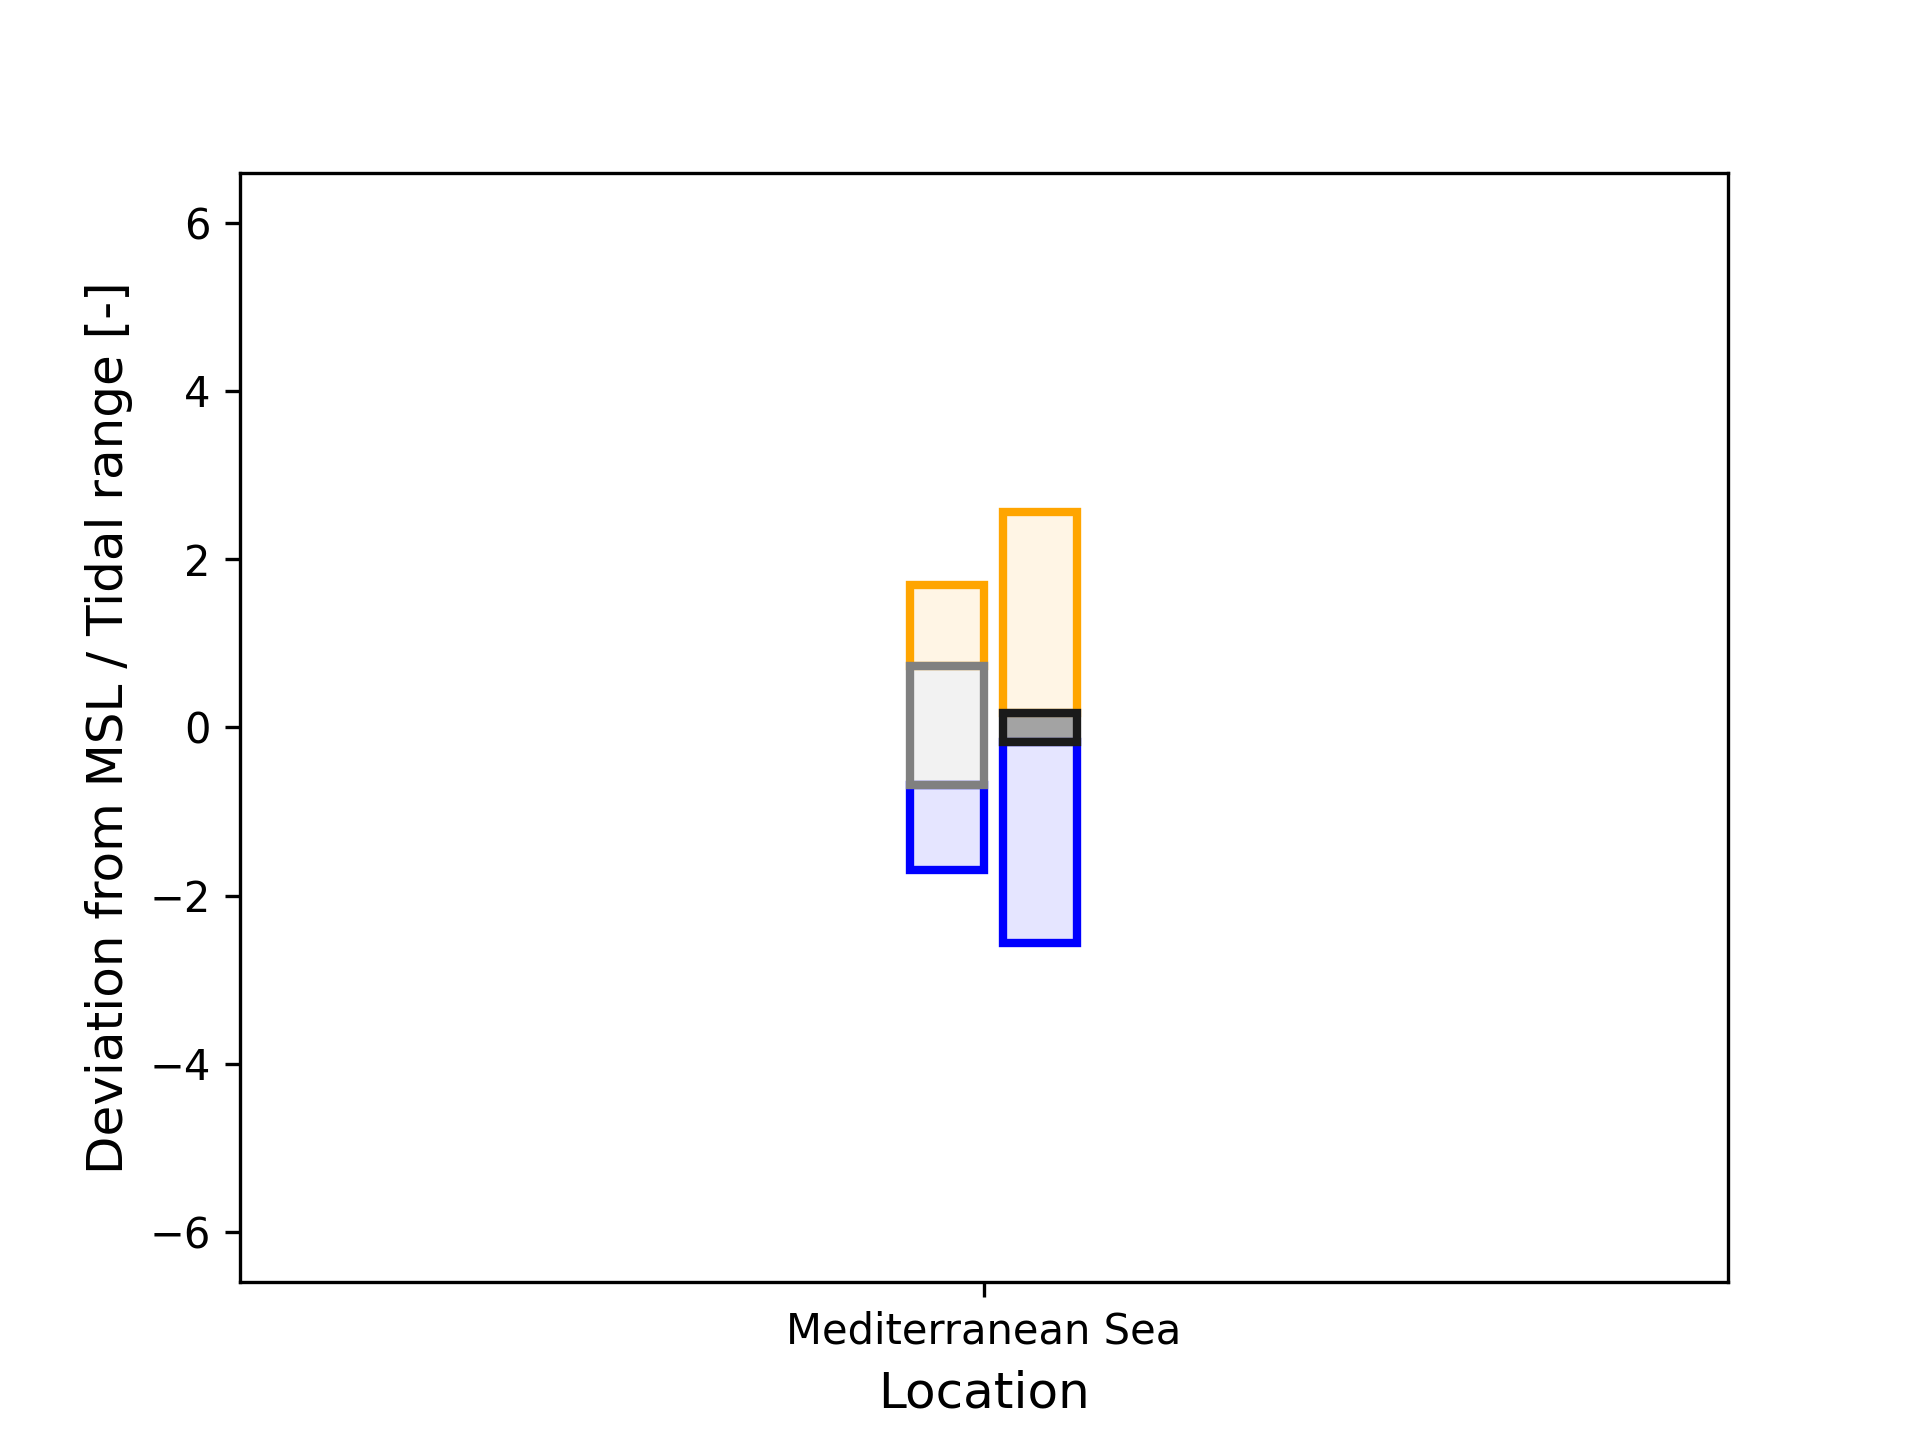
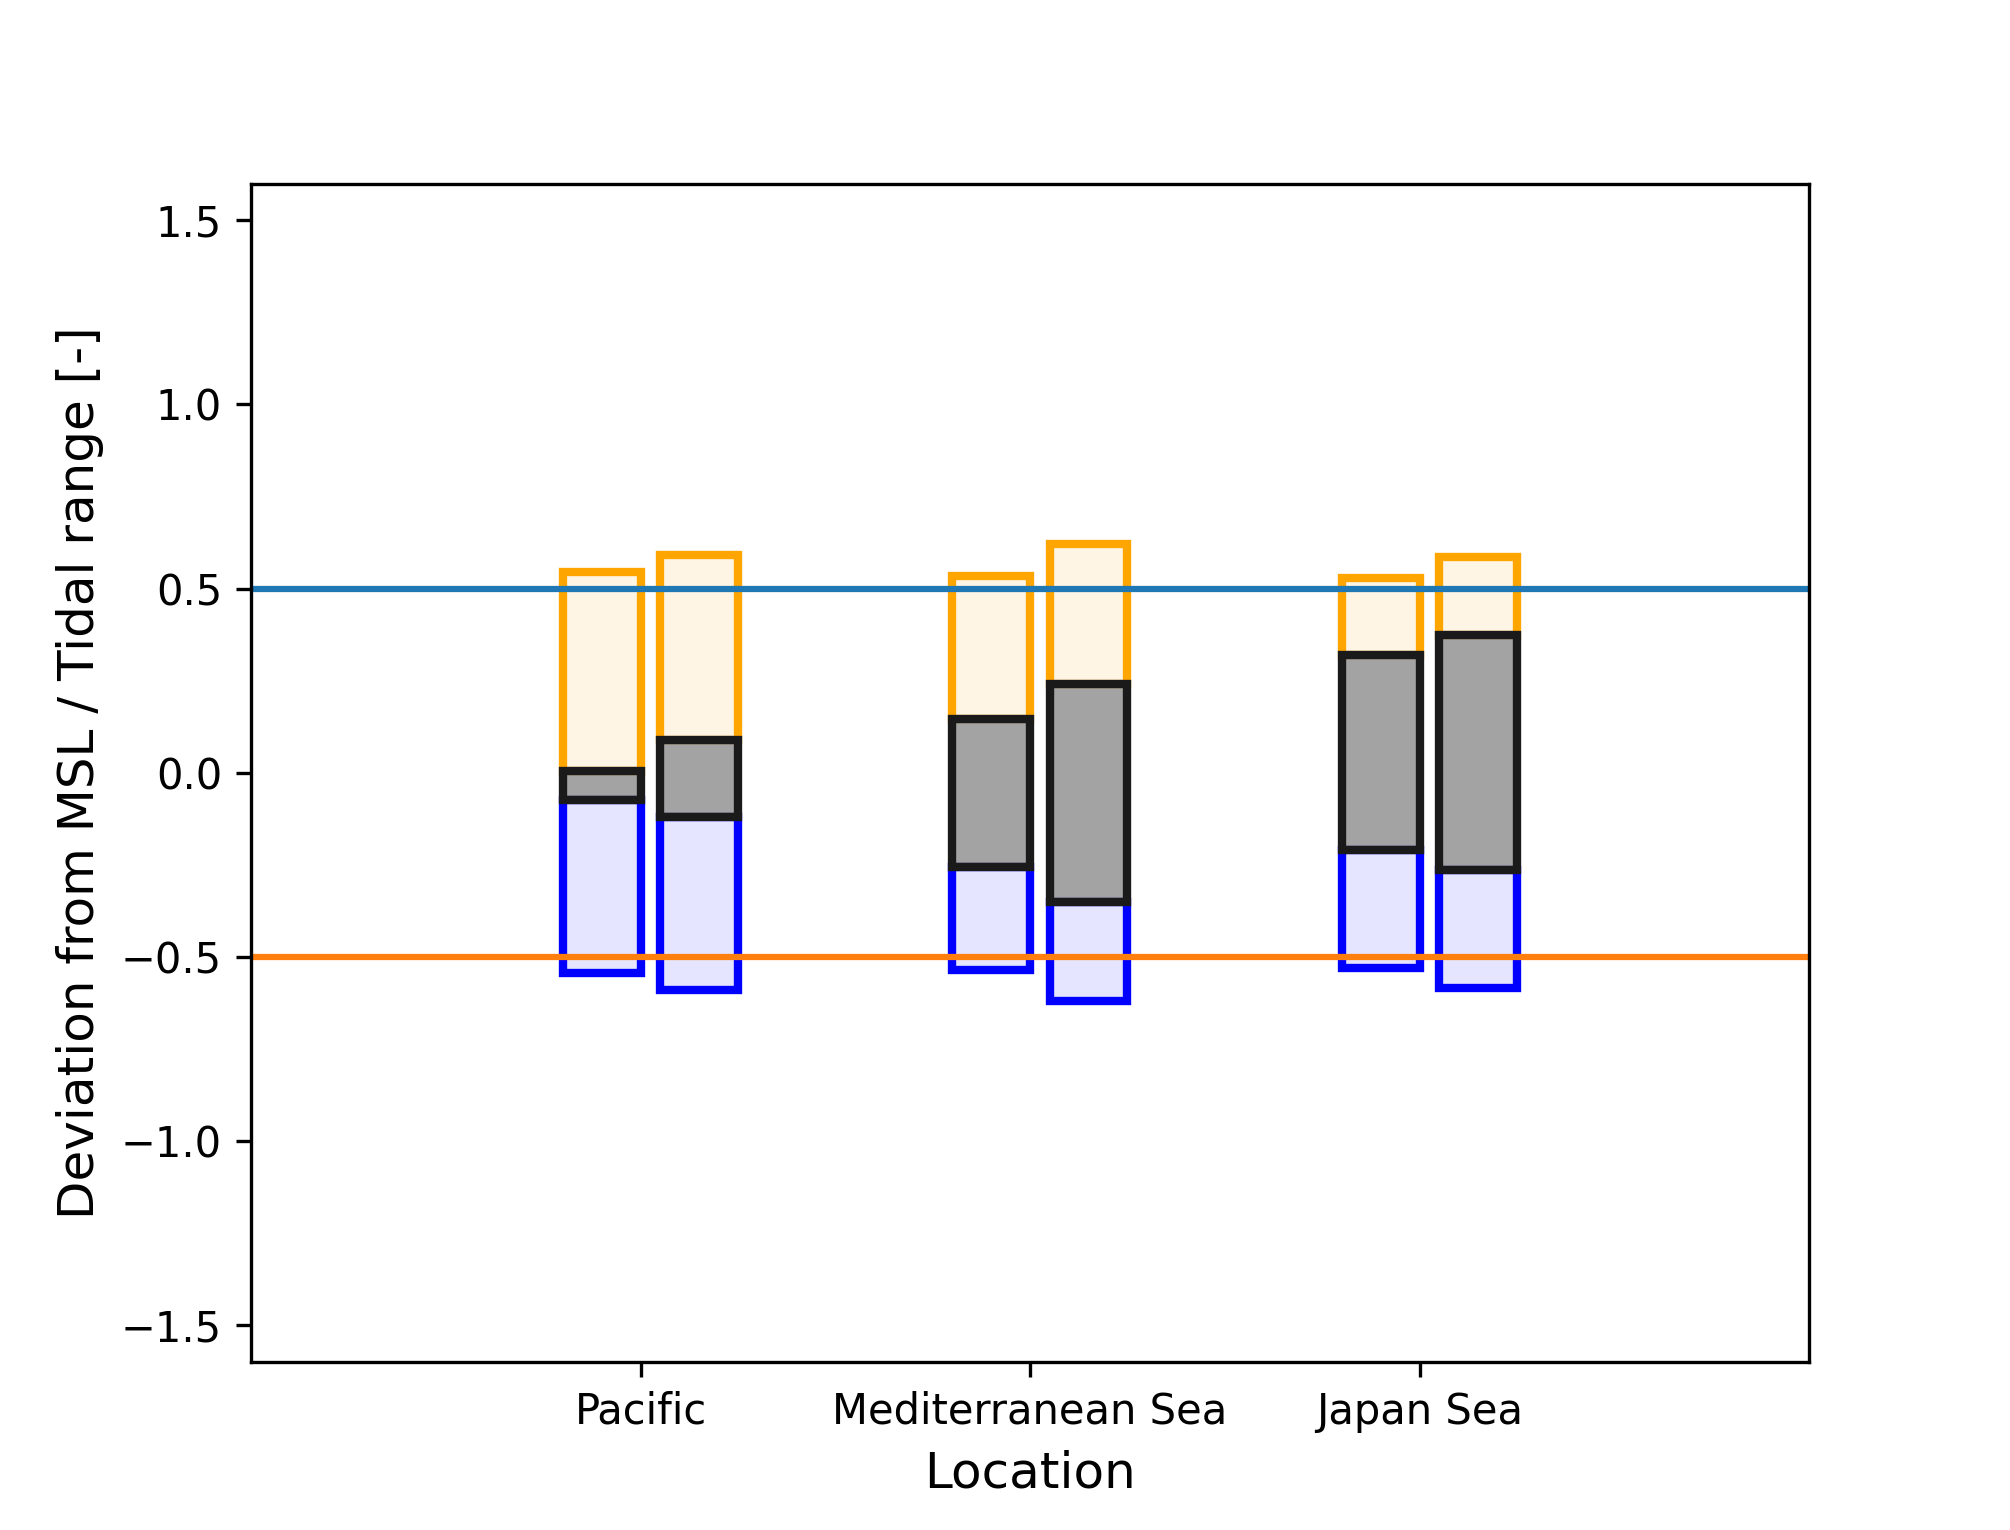
updating figure 2c

diff --git a/src/figure_2.py b/src/figure_2.py
@@ -4,7 +4,7 @@ from matplotlib.patches import Rectangle
 import pandas as pd
 import src.functions as f
 
-def figure_2a(ax,path_bin = './bin/figure_2/figure_2a.npy', path_png = None, run = False):
+def figure_2a(ax, path_bin = './bin/figure_2/figure_2a.npy', path_png = None, run = False):
 
     def run_simulation_figure_2(path_bin):
 
@@ -90,9 +90,21 @@ def figure_2a(ax,path_bin = './bin/figure_2/figure_2a.npy', path_png = None, run
         run_simulation_figure_2(path_bin)
     plot_figure_2(ax,path_bin, path_png)
 
-def figure_2b(ax,path_csv = 'data/ticon/TICON.txt', path_png = None):
+def figure_2c(ax, path_csv = 'data/ticon/TICON.txt', path_png = None):
 
-    def create_ticon_timeseries(path_csv):
+    def create_ticon_timeseries(path_csv, lat, lon):
+
+        def calculate_tidal_range(w):
+
+            nx = 149
+            ny = int(np.floor(w.size/nx))
+            w = w[:(nx*ny)].reshape(nx,ny)
+            lwl = w.min(axis = 0)
+            hwl = w.max(axis = 0)
+            tidal_amplitude = np.mean(hwl - lwl)
+            print(tidal_amplitude)
+
+            return tidal_amplitude
 
         tidal_constants = np.array([
             'M2', 'K1', 'N2', 'O1', 'P1', 'Q1', 'K2', 'S2', 'S1', 'SA', 'T2', 'MF', 'MM',
@@ -108,17 +120,18 @@ def figure_2b(ax,path_csv = 'data/ticon/TICON.txt', path_png = None):
             12.5660, 23.9340
         ])
 
-        df = pd.read_csv(path_csv, delim_whitespace=True)
+        df = pd.read_csv(path_csv, sep='\s+')
         df.columns = ['latitude', 'longitude', 'tidal_constituent', 'amplitude_cm', 'phase_degrees', 'amplitude-std_cm', 'phase-std_degrees', 'missing_data_percent', 'total_observations', 'time_gap_max', 'start_date', 'end_date', 'data_source']
 
         df['site_id'] = df.groupby(['latitude', 'longitude', 'data_source', 'start_date', 'end_date']).ngroup()
         site_list = np.unique(df['site_id'])
         n_sites = site_list.size
 
-        i = np.random.choice(n_sites)
-        i = 57#392
-        print(i)
-        site = df['site_id'] == i
+        def closest_to(x0, y0, x1, y1):
+            return np.argmin(np.sqrt((x1 - x0)**2 + (y1 - y0)**2))
+        idx = closest_to(df['latitude'], df['longitude'],  lat, lon)
+
+        site = df['site_id'] == df['site_id'][idx]
         df_site = df[site]
         amplitude_m  = df_site['amplitude_cm'].to_numpy() / 100
         phase_rad  = np.deg2rad(df_site['phase_degrees'].to_numpy())
@@ -129,64 +142,22 @@ def figure_2b(ax,path_csv = 'data/ticon/TICON.txt', path_png = None):
         t = np.arange(0, tf + dt, dt)
         
         w = (amplitude_m[np.newaxis, :] * np.cos(t[:, np.newaxis]*2*np.pi/period_hr[np.newaxis, :] + phase_rad[np.newaxis, :])).sum(axis = 1)
+        tidal_range = calculate_tidal_range(w)
+        w = w/tidal_range
 
         return t, w
 
-    def add_aslc(time, waterlevel, amplitude_annual_m):
+    def add_aslc(time, waterlevel, amplitude_annual_m, phase):
 
         period_annual_hr = 365.25 * 24
-        waterlevel_new = waterlevel + amplitude_annual_m * np.cos(time*2*np.pi/period_annual_hr)
+        waterlevel_new = waterlevel + amplitude_annual_m * np.cos(time*2*np.pi/period_annual_hr + phase)
 
         return waterlevel_new
 
-    def plot_test_figure(ax,elevation, emergence_freq, inundation_freq):
-
-        def identify_intertidal_zones(elevation, emergence_freq, inundation_freq):
-
-            supratidal_boundary = elevation[(inundation_freq >= 0.01).argmin()]
-            upper_intertidal_boundary = elevation[(inundation_freq <= 0.99).argmax()]
-            lower_intertidal_boundary = elevation[(emergence_freq <= 0.99).argmin()]
-            subtidal_boundary = elevation[(emergence_freq >= 0.01).argmax()]
-            print(supratidal_boundary, upper_intertidal_boundary, lower_intertidal_boundary, subtidal_boundary)
-            return supratidal_boundary, upper_intertidal_boundary, lower_intertidal_boundary, subtidal_boundary
-
-        for i in range(emergence_freq.shape[0]):
-
-            supratidal_boundary, upper_intertidal_boundary, lower_intertidal_boundary, subtidal_boundary = identify_intertidal_zones(elevation, emergence_freq[i,:], inundation_freq[i,:])
-            upper_intertidal = ((inundation_freq[i,:] < 0.99) & (inundation_freq[i,:] > 0.01))
-            lower_intertidal = ((emergence_freq[i,:] < 0.99) & (emergence_freq[i,:] > 0.01))
-
-            ax.fill_between(elevation, upper_intertidal, color = 'orange', alpha = 0.05)
-            ax.fill_between(elevation, lower_intertidal, color = 'blue', alpha = 0.05)
-
-            if i == 0:
-                ax.plot(elevation, emergence_freq[i,:], c = 'blue', alpha = 1, label = 'Emergence')
-                ax.plot(elevation, inundation_freq[i,:], c = 'orange', alpha = 1, label = 'Inundation')
-
-                ax.plot([lower_intertidal_boundary, upper_intertidal_boundary], [-0.02,-0.02], alpha = 1, c = 'black')
-                ax.plot([supratidal_boundary, upper_intertidal_boundary], [1.035,1.035], alpha = 1, c = 'orange')
-                ax.plot([lower_intertidal_boundary, subtidal_boundary], [1.02,1.02], alpha = 1, c = 'blue')
-            else:
-                ax.plot(elevation, emergence_freq[i,:], c = 'blue', alpha = 0.5, linestyle = 'dashed')
-                ax.plot(elevation, inundation_freq[i,:], c = 'orange', alpha = 0.5, linestyle = 'dashed')
-
-                ax.plot([lower_intertidal_boundary, upper_intertidal_boundary], [-0.02,-0.02], c = 'black', alpha = 0.5, linestyle = 'dashed')
-                ax.plot([supratidal_boundary, upper_intertidal_boundary], [1.035,1.035], c = 'orange', alpha = 0.5, linestyle = 'dashed')
-                ax.plot([lower_intertidal_boundary, subtidal_boundary], [1.02,1.02], c = 'blue', alpha = 0.5, linestyle = 'dashed')
-
-        ax.set_ylabel('Frequency of inundation/emergence [-]', fontsize = 12)
-        ax.set_xlabel('Deviation from MSL / Tidal range [-]', fontsize = 12)
-        ax.legend(frameon = False, fontsize = 11)
-        # plt.ylim(-0.17,1.17)
-        # plt.yticks(np.arange(0,1 + 0.2,0.2))
-        # plt.xlim(-3.4, 3.4)
-        #plt.show()
-
-    def plot_boxplot_figure(ax,elevation, emergence_freq, inundation_freq, path_png):
+    def add_boxplot(ax, pos, elevation, emergence_freq, inundation_freq, path_png = None):
     
         dz = np.round(np.diff(elevation).mean(), 3)    
 
-        #fig, ax = plt.subplots()
         for i in range(emergence_freq.shape[0]):
             upper_intertidal         = (emergence_freq [i,:] > 0.99) & ((inundation_freq[i,:] < 0.99) & (inundation_freq[i,:] > 0.01))
             intermediate_intertidal  = (inundation_freq[i,:] > 0.99) & (emergence_freq [i,:] > 0.99)
@@ -195,39 +166,56 @@ def figure_2b(ax,path_csv = 'data/ticon/TICON.txt', path_png = None):
 
             y = np.cumsum([0, lower_intertidal.sum(), intermediate_intertidal.sum(), transitioning_intertidal.sum(), upper_intertidal.sum()])*dz
             y -= y.max()/2
-            lower = Rectangle((i*0.125 - 0.1, y[0]), 0.1, y[1] - y[0], edgecolor = (0.0, 0.0, 1.0, 1),   facecolor = (0.0, 0.0, 1.0, 0.1), lw = 2)
+            lower = Rectangle((i*0.125 - 0.1 + pos*0.5, y[0]), 0.1, y[1] - y[0], edgecolor = (0.0, 0.0, 1.0, 1),   facecolor = (0.0, 0.0, 1.0, 0.1), lw = 2)
             ax.add_patch(lower)
-            upper = Rectangle((i*0.125 - 0.1, y[3]), 0.1, y[4] - y[3], edgecolor = (1.0, 0.647, 0.0, 1), facecolor = (1.0, 0.647, 0.0, 0.1), lw = 2)
+            upper = Rectangle((i*0.125 - 0.1 + pos*0.5, y[3]), 0.1, y[4] - y[3], edgecolor = (1.0, 0.647, 0.0, 1), facecolor = (1.0, 0.647, 0.0, 0.1), lw = 2)
             ax.add_patch(upper)
             if (y[2] - y[1]) > 0:
-                inter = Rectangle((i*0.125 - 0.1, y[1]), 0.1, y[2] - y[1], edgecolor = (0.5, 0.5, 0.5, 1),   facecolor = (0.5, 0.5, 0.5, 0.1), lw = 2)
+                inter = Rectangle((i*0.125 - 0.1 + pos*0.5, y[1]), 0.1, y[2] - y[1], edgecolor = (0.5, 0.5, 0.5, 1),   facecolor = (0.5, 0.5, 0.5, 0.1), lw = 2)
                 ax.add_patch(inter)
             if (y[3] - y[2]) > 0:
-                trans = Rectangle((i*0.125 - 0.1, y[1]), 0.1, y[3] - y[2], edgecolor = (0.1, 0.1, 0.1, 1),   facecolor = (0.1, 0.1, 0.1, 0.4), lw = 2)
+                trans = Rectangle((i*0.125 - 0.1 + pos*0.5, y[1]), 0.1, y[3] - y[2], edgecolor = (0.1, 0.1, 0.1, 1),   facecolor = (0.1, 0.1, 0.1, 0.4), lw = 2)
                 ax.add_patch(trans)
-        ax.set_ylim(elevation.min(), elevation.max())
-        ax.set_xlim(-1, 1)
-        ax.set_xticks(ticks = [0], labels = ['Mediterranean Sea'])
-        ax.set_ylabel('Deviation from MSL / Tidal range [-]', fontsize = 12)
-        ax.set_xlabel('Location', fontsize = 12)
-        #if path_png is not None:
-        #    plt.savefig(path_png, dpi = 300)
-        #plt.show()
 
-    time, waterlevel = create_ticon_timeseries(path_csv)
-    waterlevel_t0 = add_aslc(time, waterlevel, amplitude_annual_m = 0)
-    waterlevel_t1 = add_aslc(time, waterlevel, amplitude_annual_m = 1)
+    rows, cols = 1, 1
+    fig = plt.figure(figsize=((6.4 + 0.3)*cols,(4.8 + 0.3)*rows))
+    gs1 = fig.add_gridspec(rows,cols,hspace=.15, wspace=.15) #define subplot grid
+    ax = fig.add_subplot(gs1[0,0])
 
-    dt = np.diff(time).mean()
-    _, low_waterlevel_0, high_waterlevel_0 = f.calculate_highlow_water(waterlevel_t0, dt = dt, plot = False)
-    _, low_waterlevel_1, high_waterlevel_1 = f.calculate_highlow_water(waterlevel_t1, dt = dt, plot = False)
-    elevation, emergence_freq_0, inundation_freq_0 = f.calculate_inundation_metrics(low_waterlevel_0, high_waterlevel_0, dz = 0.01, plot = False)
-    _,         emergence_freq_1, inundation_freq_1 = f.calculate_inundation_metrics(low_waterlevel_1, high_waterlevel_1, dz = 0.01, plot = False)
-    emergence_freq = np.vstack((emergence_freq_0, emergence_freq_1))
-    inundation_freq = np.vstack((inundation_freq_0, inundation_freq_1))
+    for i in range(3):
 
-    #plot_test_figure(ax,elevation, emergence_freq, inundation_freq)
-    plot_boxplot_figure(ax,elevation, emergence_freq, inundation_freq, path_png)
+        if i == 0:
+            lat, lon, future_aslc_change, phase = -17.533, -149.573, 0.0724, 0.25*2*np.pi
+        elif i == 1:
+            lat, lon, future_aslc_change, phase =  41.342,    2.166, 0.1192, 0.7*2*np.pi
+        elif i == 2:
+            lat, lon, future_aslc_change, phase =  35.548,  133.243, 0.0603, 0.65*2*np.pi
 
-#figure_2a(path_bin = './bin/figure_2/figure_2a.npy', path_png = './figures/figure_2/figure_2a.png', run = False)
-#figure_2b(path_csv = './data/ticon/TICON.txt', path_png = './figures/figure_2/figure_2b.png')
+        time, waterlevel_t0 = create_ticon_timeseries(path_csv, lat, lon)
+        waterlevel_t1 = add_aslc(time, waterlevel_t0, amplitude_annual_m = future_aslc_change, phase = phase)
+
+        dt = np.diff(time).mean()
+        _, low_waterlevel_0, high_waterlevel_0 = f.calculate_highlow_water(waterlevel_t0, dt = dt, plot = False)
+        _, low_waterlevel_1, high_waterlevel_1 = f.calculate_highlow_water(waterlevel_t1, dt = dt, plot = False)
+        elevation, emergence_freq_0, inundation_freq_0 = f.calculate_inundation_metrics(low_waterlevel_0, high_waterlevel_0, dz = 0.01, plot = False)
+        _,         emergence_freq_1, inundation_freq_1 = f.calculate_inundation_metrics(low_waterlevel_1, high_waterlevel_1, dz = 0.01, plot = False)
+        emergence_freq = np.vstack((emergence_freq_0, emergence_freq_1))
+        inundation_freq = np.vstack((inundation_freq_0, inundation_freq_1))
+
+        add_boxplot(ax, i, elevation, emergence_freq, inundation_freq, path_png)
+
+    # ax.set_ylim(elevation.min(), elevation.max())
+    ax.set_ylim(-1.6, 1.6)
+    ax.set_xlim(-0.5, 1.5)
+    ax.set_xticks(ticks = [0*0.5,1*0.5,2*0.5], labels = ['Pacific', 'Mediterranean Sea', 'Japan Sea'])
+    ax.set_ylabel('Deviation from MSL / Tidal range [-]', fontsize = 12)
+    ax.set_xlabel('Location', fontsize = 12)
+    ax.plot([-0.5, 1.5], [0.5,0.5])
+    ax.plot([-0.5, 1.5], [-0.5,-0.5])
+    if path_png is not None:
+        plt.savefig(path_png, dpi = 300)
+    plt.show()
+
+ax = None
+#figure_2a(ax, path_bin = './bin/figure_2/figure_2a.npy', path_png = './figures/figure_2/figure_2a.png', run = False)
+figure_2c(ax, path_csv = './data/ticon/TICON.txt', path_png = './figures/figure_2/figure_2b.png')
